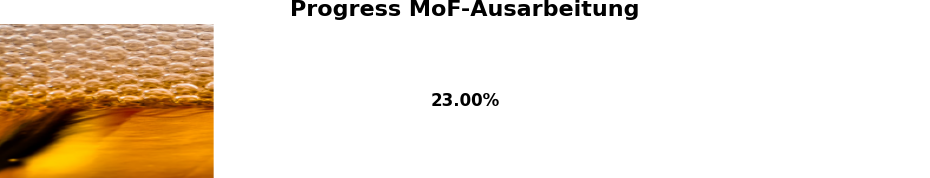
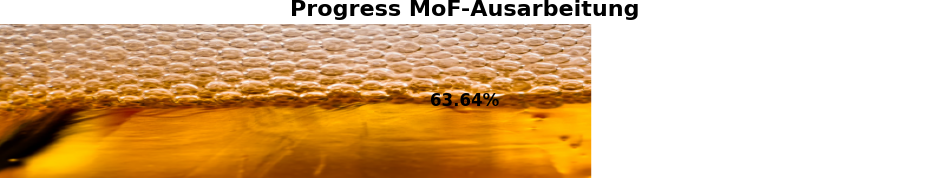
kathi frage41,42

diff --git a/ausarbeitung.tex b/ausarbeitung.tex
@@ -528,9 +528,91 @@ Siehe \aqref{4}.
 \end{figure}
 \question{Diskutieren des Schwigungs-Rotations Spektrums eines 2-atomigen Moleküls}
 \label{q:43}
+\begin{itemize}
+    \item Spektren zweiatomiger Moleküle entstehen durch Rotations- und Schwingungsübergänge
+    \item im realen Molekül führen Kerne um Gleichgewichtsabstand $R_e$ Schwingungen aus, sodass sich Kernabstand $R$ während Rotation des Moleküls ändert
+    \item \textbf{Rotationsspektren}
+        \begin{itemize}
+            \item entstehen durch Absorption des Moleküls im Ultrarot-Bereich
+            \item durch Energieaufnahme kommt es zu Strahlungsübergänge zwischen den Rotationszuständen
+            \item in einfachster Näherung wird Molekül als \textbf{starrer Rotator} betrachtet, der sich mit konstantem Kernabstand $R=R_e$=const um Schwerpunktachse dreht. Rotationsenergie $E_{rot}$ ,als Termwert $F_{rot}$, hat bei $R=R_e$ diskrete Werte, siehe \ref{RotEnergie_starr} \ref{Termwert_RotE}. Die Abstände der Energieniveaus $\Delta E_{rot}$ nehmen linear zu, siehe \ref{Abstaende_Eniveaus_starr}.
 
+                \begin{equation}
+                E_{rot} = \frac{J(J+1)\hbar^2}{2MR_e^2}
+                \label{RotEnergie_starr}
+                \end{equation}
+
+                \begin{equation}
+                F_{rot}(J)=B_eJ(J+1)=\frac{\hbar}{4\pi cMR_e^2}J(J+1)
+                \label{Termwert_RotE}
+                \end{equation}
+
+                \begin{equation}
+                \Delta E_{rot}=E_{rot}(J+1)-E_{rot}=\frac{(J+1)\hbar^2}{I}
+                \label{Abstaende_Eniveaus_starr}
+                \end{equation}
+
+            \item beim \textbf{nicht starren Rotator} (Zentrifugalkraft berücksichtigt) besteht elastische Bindung zwischen Atomen mit Federkonstante k. Der Kernabstand vergößert sich von $R_e$ auf $R$, dabei wird Trägheitsmoment $I$ kleiner und Rotationsenergie $F_{rot}$ größer, siehe \ref{RotE_nichtstarr}. Die Spektrallinienwachsen rücken mit steigender Rotationsquantenzahl J=0,1,2,... näher zusammen.
+
+                \begin{equation}
+                   F_{rot}=B_eJ(J+1)-D_eJ^2(J+1)^2+...
+                   \label{RotE_nichtstarr}
+                    \end{equation}
+    \begin{figure}[H]
+    \centering
+   \begin{minipage}[b]{.3\linewidth}
+      \includegraphics[width=\linewidth]{resources/16-03-2012/StarrervsnichtstarrerRotor.png}
+      \caption{starrer Rotor vs nicht starrer Rotor}
+   \end{minipage}
+   \hspace{.1\linewidth}
+   \begin{minipage}[b]{.3\linewidth} 
+      \includegraphics[width=\linewidth]{resources/16-03-2012/2starrervsnichtstarrerrotos.png}
+      \caption{Übergänge starrer vs nicht starrer Rotor}
+   \end{minipage}
+    \end{figure}
+                
+        \end{itemize}
+
+    \item \textbf{Rotationsschwingungsspektren}
+        \begin{itemize}
+            \item entstehen durch Absorption/Emission des Moleküls im Infrarot-Bereich, wobei Rotation und Schwingung gleichzeitig verändert werden
+            \item jede Bande des Rotationsschwingungsspektrums entspricht einem Schwingungsübergang
+            \item in einfachster Näherung bilden schwingende Atome des Moleküls einen \textbf{harmonischen Oszillator} mit diskreten Energie $E_{vib}$, siehe \ref{EVib_harmonisch}, und gleich große Energieabstände $\Delta E_{vib}$, siehe \ref{EVib_Abstaende}. Potential kann durch Parabelpotential angenähert werden.
+
+                \begin{equation}
+                    E_{vib}(\nu)=(\nu+\frac{1}{2})\hbar \omega
+                \label{EVib_harmonisch}
+                \end{equation}
+
+                \begin{equation}
+                \Delta E_{vib}=\hbar \omega
+                \label{EVib_Abstaende}
+                \end{equation}
+
+            \item bei Näherung als \textbf{anharmonischer Oszillator} rücken die Enrgieniveaus mit zunehmender Schwingungsquantenzahl $\nu$=0,1,2,... näher zusammen und konvergieren gegen Dissoziationsenergie des Moleküls. Potential kann durch Morse-Potential angenähert werden.
+        \end{itemize}
+
+\end{itemize}
+
+
+\begin{figure}[H]
+    \centering
+   \begin{minipage}[b]{.4\linewidth}
+      \includegraphics[width=\linewidth]{resources/16-03-2012/Vergleich_ParabelMorseReal.png}
+      \caption{Vergleich zwischen Parabel-, Morse- und realen Potentials}
+   \end{minipage}
+   \hspace{.1\linewidth}
+   \begin{minipage}[b]{.4\linewidth} 
+      \includegraphics[width=0.8\linewidth]{resources/16-03-2012/SchwingugsRotatioinsspektrum.png}
+      \caption{Darstellung der Rotations- und Schwingungsniveaus, jedem Schwingungsniveau ist Reihe von Rotationsniveaus zugeordnet}
+   \end{minipage}
+    \end{figure}
 \question{Diskutiere die chemische Bindung im Li2 Molekül}
 \label{q:44}
+Jedes Lithium-Atom liefert jeweils 3 Elektronen, insgesamt also 6 Elektronen. 
+Somit sind die Molekülorbitale ($1\sigma_g)^2$ ($1\sigma_u)^2$ ($2\sigma_g)^2$ besetzt. 
+Da das ($2\sigma_g)$ Orbital besetzt ist, handelt es sich um eine stabile Bindung. 
+Es gibt ein bindendes Elektronenpaar und daher handelt es sich um eine kovalente Bindung.
 
 \question{Was versteht man unter dem Franck-Condon Prinzip? Diskutiere die Intensität von Schwingungsbänden in einem Molekülspektrum bei einem elektronischen Übergang an Hand des Franck-Condon Prinzips.}
 \label{q:45}

diff --git a/progress.py b/progress.py
@@ -15,10 +15,10 @@ def count_x_in_brackets(file_path):
                 in_brackets = False
             elif char == 'x' and in_brackets:
                 count += 1
-        print(f'Number of x\'s in brackets: {count} - relative progress: {count/100:.2f}')
+        print(f'Number of x\'s in brackets: {count} - relative progress: {count/88:.2f}')
         return count
 
-def visualize_progress(count, max_count=100):
+def visualize_progress(count, max_count=88):
     fig, ax = plt.subplots(figsize=(12, 2)) 
 
     # Load the image
@@ -44,6 +44,7 @@ def visualize_progress(count, max_count=100):
     # Adding a title and percentage inside the progress bar
     title = "Progress MoF-Ausarbeitung"
     percentage = (count/max_count) * 100
+    
     percentage_text = f'{percentage:.2f}%'
 
     plt.title(title, fontsize=16, fontweight='bold', color='black')

diff --git a/todo.md b/todo.md
@@ -1,15 +1,15 @@
 # Überblick über offene Fragen und Zettel: 
 
-### Fragen  ---  Arbeitet aus
-- [x] Frage 1 --- Elias
-- [x] Frage 2 --- Elias
-- [x] Frage 3 --- Elias
-- [x] Frage 4 --- Elias
-- [x] Frage 5 --- Christine
-- [x] Frage 6 --- David
-- [x] Frage 7 --- David
-- [ ] Frage 8 --- Nadine
-- [ ] Frage 9 --- Nadine
+### Fragen ------- arbeitet aus
+- [x] Frage 01 --- Elias
+- [x] Frage 02 --- Elias
+- [x] Frage 03 --- Elias
+- [x] Frage 04 --- Elias
+- [x] Frage 05 --- Christine
+- [x] Frage 06 --- David
+- [x] Frage 07 --- David
+- [ ] Frage 08 --- Nadine
+- [ ] Frage 09 --- Nadine
 - [x] Frage 10 --- Felix
 - [x] Frage 11 --- Felix
 - [x] Frage 12 --- siehe Frage 1
@@ -18,7 +18,7 @@
 - [x] Frage 15 --- siehe Frage 4
 - [x] Frage 16 --- Felix
 - [x] Frage 17 --- Felix
-- [ ] Frage 18 --- __________
+- [x] Frage 18 --- siehe Frage 5
 - [ ] Frage 19 --- Nadine
 - [x] Frage 20 --- siehe Frage 9
 - [x] Frage 21 --- Christine
@@ -28,29 +28,29 @@
 - [ ] Frage 25 --- schwechblechlover
 - [ ] Frage 26 --- Nadine
 - [ ] Frage 27 --- Nadine
-- [ ] Frage 28 --- __________
+- [x] Frage 28 --- Andreas
 - [x] Frage 29 --- Christine
-- [ ] Frage 30 --- __________
+- [x] Frage 30 --- David
 - [x] Frage 31 --- Christine
 - [ ] Frage 32 --- Nadine
-- [ ] Frage 33 --- __________
+- [x] Frage 33 --- David
 - [x] Frage 34 --- siehe Frage 62
 - [x] Frage 35 --- siehe Frage 57
 - [x] Frage 36 --- siehe Frage 27
 - [ ] Frage 37 --- __________
 - [x] Frage 38 --- siehe Frage 4
 - [ ] Frage 39 --- __________
-- [ ] Frage 40 ---Kathi
-- [ ] Frage 41 ---Kathi
-- [ ] Frage 42 ---Kathi
-- [ ] Frage 43 ---Kathi
-- [ ] Frage 44 ---Kathi
+- [x] Frage 40 ---Kathi
+- [x] Frage 41 ---Kathi
+- [x] Frage 42 ---Kathi
+- [x] Frage 43 ---Kathi
+- [x] Frage 44 ---Kathi
 - [ ] Frage 45 --- __________
-- [ ] Frage 46 --- __________
+- [x] Frage 46 --- David
 - [x] Frage 47 --- siehe Frage 27
-- [ ] Frage 48 --- __________
+- [x] Frage 48 --- Andreas
 - [ ] Frage 49 --- __________
-- [ ] Frage 50 --- __________
+- [x] Frage 50 --- siehe Frage 40
 - [ ] Frage 51 --- __________
 - [x] Frage 52 --- Matthias
 - [x] Frage 53 --- Matthias
@@ -64,10 +64,10 @@
 - [x] Frage 61 --- Christine
 - [x] Frage 62 --- Christine
 - [x] Frage 63 --- siehe Frage 26
-- [ ] Frage 64 --- __________
+- [x] Frage 64 --- siehe Frage 46
 - [ ] Frage 65 --- __________
 - [x] Frage 66 --- siehe Frage 57
-- [ ] Frage 67 --- __________
+- [x] Frage 67 --- siehe Frage 5
 - [ ] Frage 68 --- __________
 - [x] Frage 69 --- Christine
 - [x] Frage 70 --- siehe Frage 52
